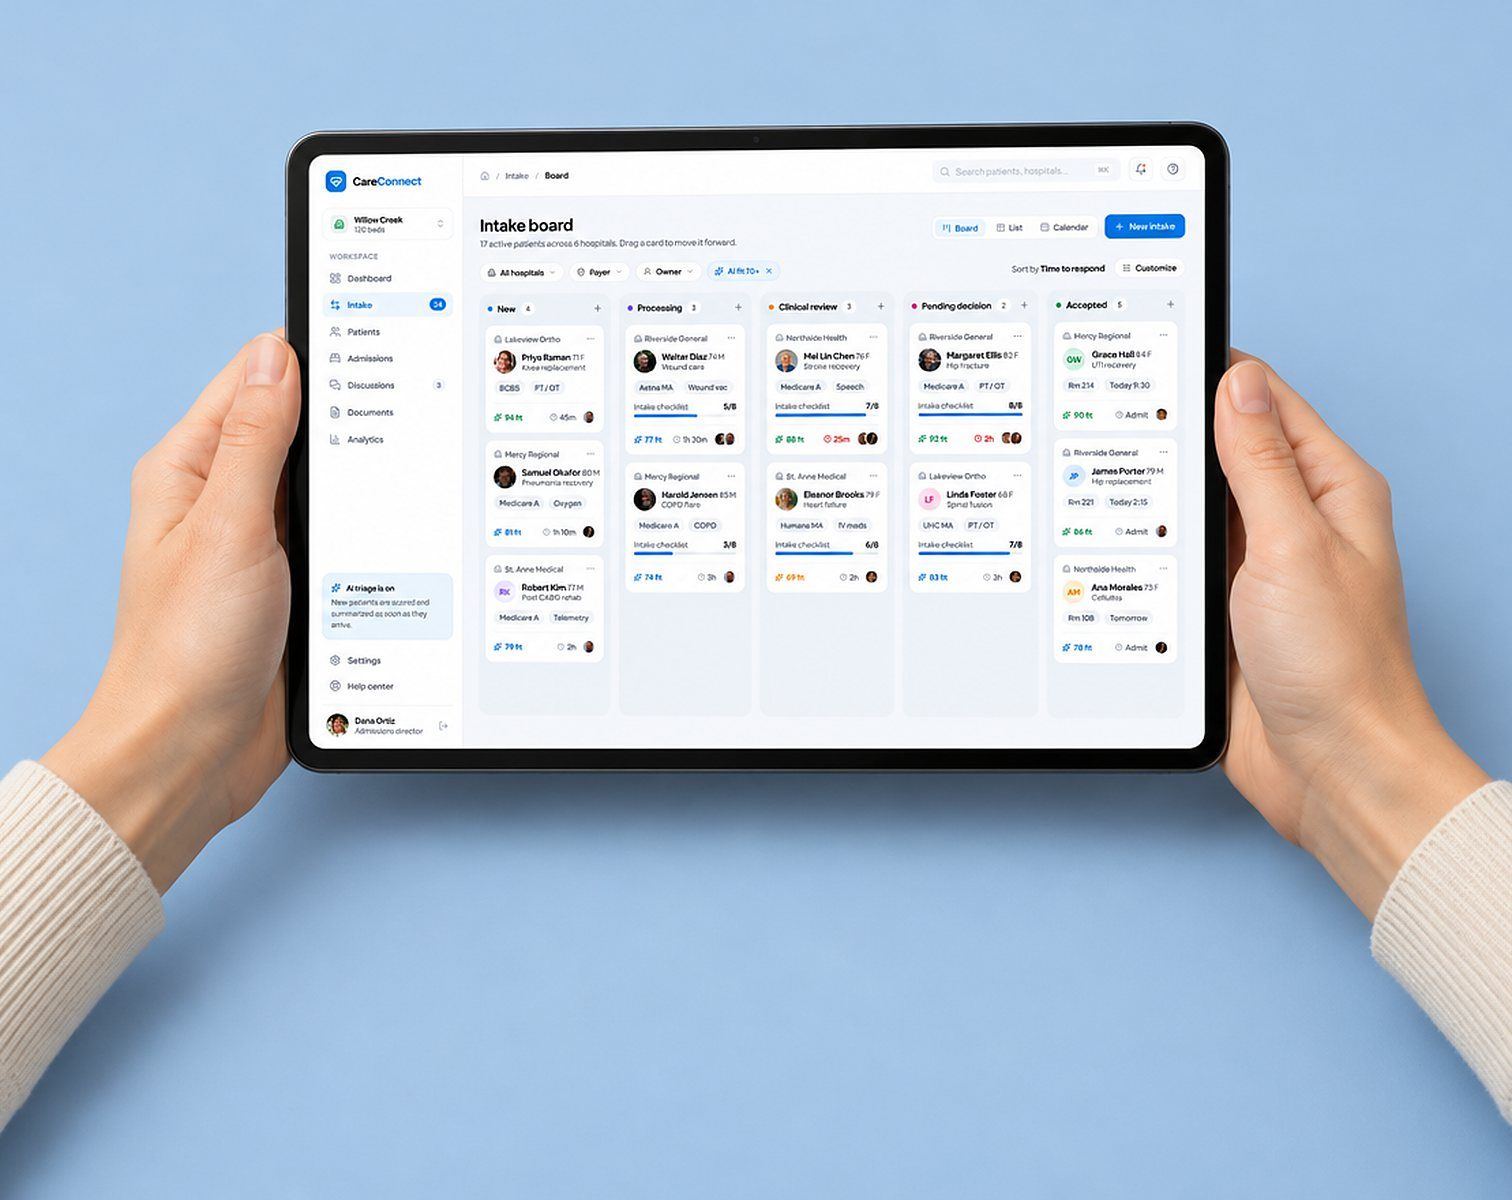
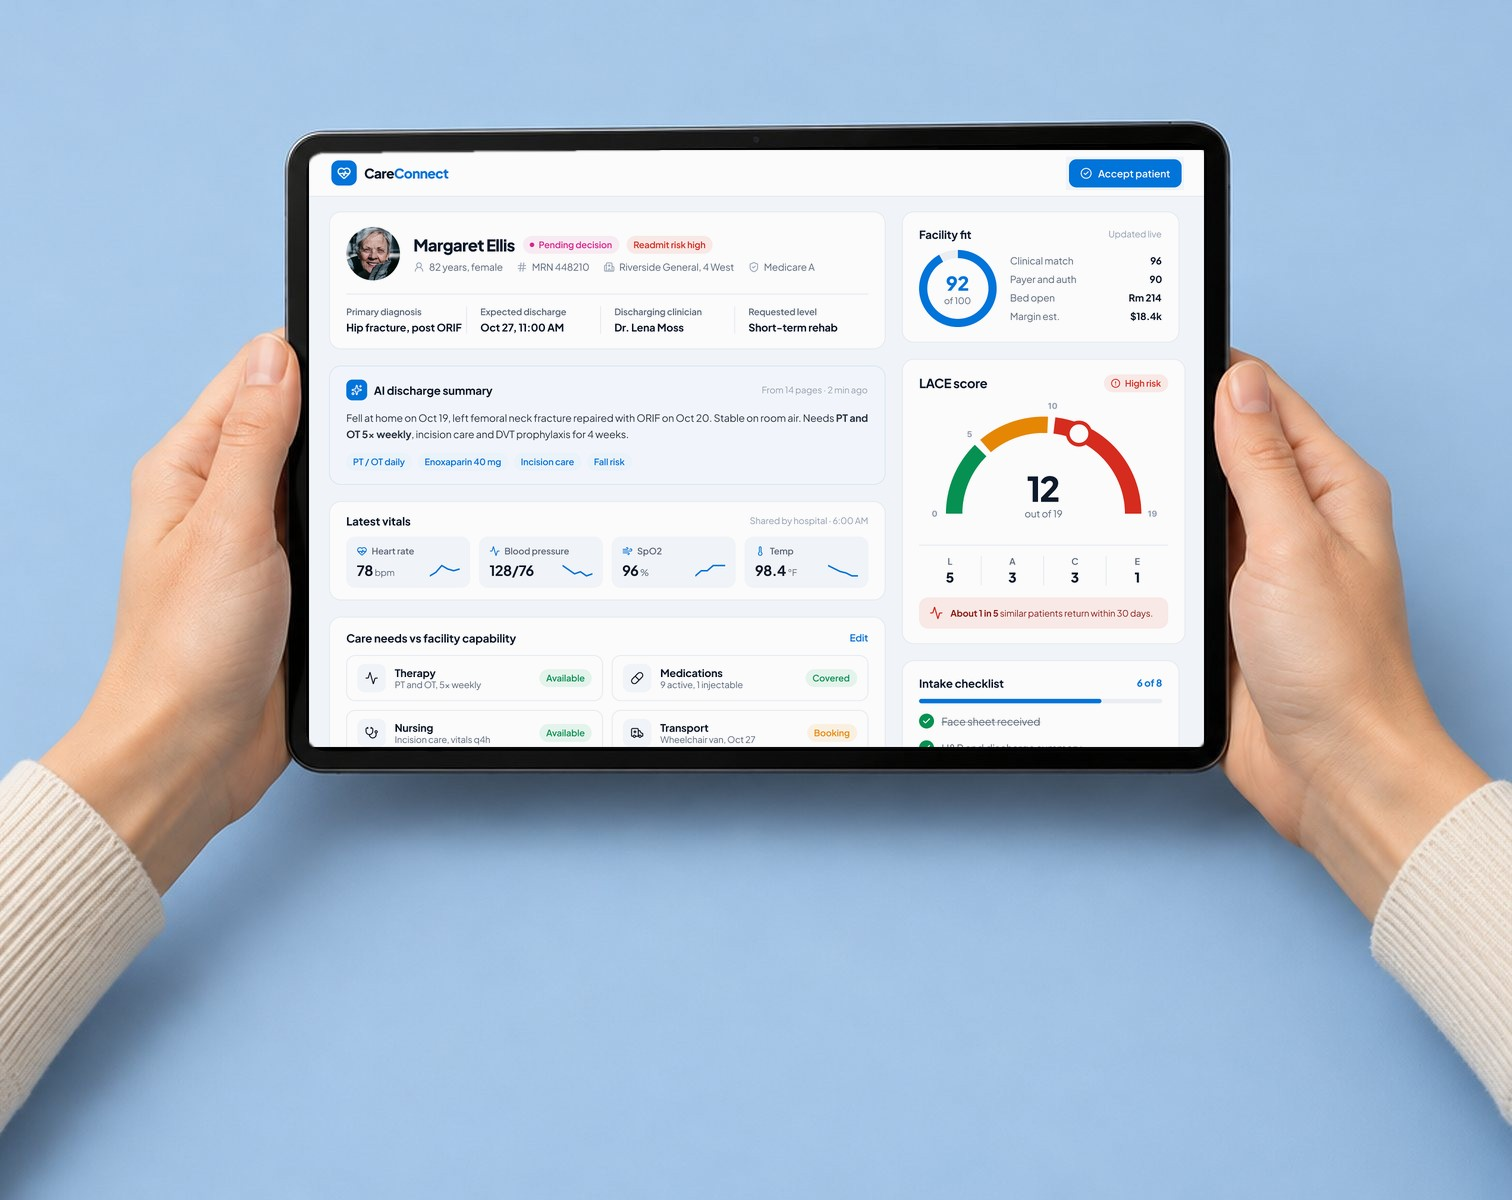
Care Connect card: a cleaner patient review screen on the tablet
Replaces the dense intake board with larger pieces from the project's own
patient review and readmission risk screens.

Claude-Session: https://claude.ai/code/session_011BdSE2fEeiEv9ZgoYmWAPn

diff --git a/src/content/seed-data.ts b/src/content/seed-data.ts
@@ -942,7 +942,7 @@ type CaseDetails = {
  */
 const DESIGNED_CARDS: Record<string, string> = {
   "surgo-health": "Hands holding the Surgo Health index on a tablet, on a tomato red backdrop",
-  "care-connect": "Hands holding the Care Connect intake board on a tablet, on a sky blue backdrop",
+  "care-connect": "Hands holding a tablet with a Care Connect patient review: the patient, a fit score of 92 and a readmission risk gauge",
   "rxlive": "A hand holding the RxLive worklist on a phone, on a sage backdrop",
   "sifio-health": "The Sifio Health app on a phone standing on a stone block, on a sage backdrop",
   "meetingful": "The Meetingful dashboard on a laptop, on a butter yellow backdrop",
